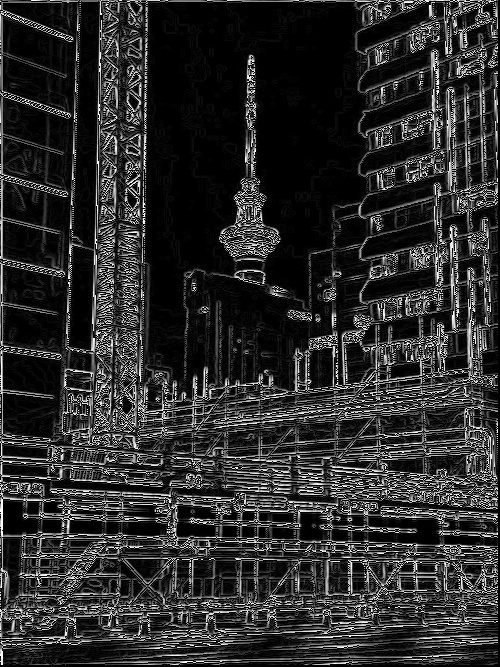
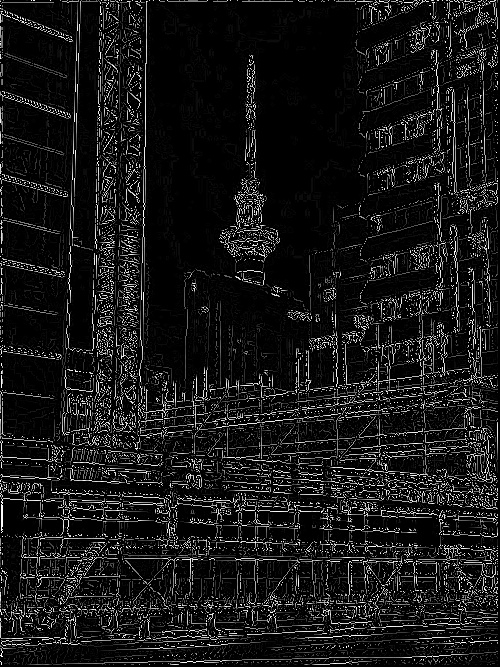
implemented canny

diff --git a/canny.py b/canny.py
@@ -34,7 +34,6 @@ def blur(img):
 	return output
 
 def sepblur(img):
-	print("blurring")
 	output = np.zeros_like(img)
 	output2 = np.zeros_like(img)
 	kernelc = np.array([[1],[2],[1]])/4
@@ -86,113 +85,113 @@ def sobel(gray_img):
 				for kc in range(3):
 					hori += horizontal[kr][kc] * gray_img[i-kr][j-kc]
 					vert += vertical[kr][kc] * gray_img[i-kr][j-kc]
+			angle = np.rad2deg(np.arctan2(vert,hori))
+			if angle < 0: 
+				angle += 180
+			angles[i-1,j-1] = angle
+			output[i-1,j-1] = np.sqrt(np.square(hori) + np.square(vert))
 
     		# Edge Magnitude
-			mag = np.sqrt(pow(hori, 2.0) + pow(vert, 2.0))
-			output[i-1,j-1] = mag
-			angles[i-1,j-1] = np.arctan2(vert,hori)
-			#if mag > 100:
-				#output[i-1,j-1] = mag
+			#mag = np.sqrt(pow(hori, 2.0) + pow(vert, 2.0))
+			#output[i-1,j-1] = mag
+				#if mag > 100:
+					#output[i-1,j-1] = mag
 
 	cv2.imwrite('sobel.jpg',output)
-	return output,angles
+	return (output,angles)
 
 def nms(img,angles):
+	nmsimg = np.zeros_like(img)
 	rows = img.shape[0]
 	cols = img.shape[1]
+	angle = 0
 	for i in range(1,rows-1):
 		for j in range(1,cols-1):
-			print(f"{(i-1,j-1)}: {angles[i-1,j-1]}")
-			if angles[i-1,j-1] < 0:
-				break
-			#if -22.5 <= gradnorm <= 22.5 or -157.5 <= gradnorm <= 157.5:
-				#if output[i-2,j-1] > output[i-1,j-1] or output[i,j-1] > output[i-1,j-1]:
-					#output[i-1,j-1] = 0
-			#elif 67.5 <= gradnorm <= 122.5 or -122.5<= gradnorm <= -67.5:
-				#if output[i-1,j] > output[i-1,j-1] or output[i-1,j-2] > output[i-1,j-1]:
-					#output[i-1,j-1] = 0 
-			#elif 22.5 <= gradnorm <= 67.5 or -157.5 <= gradnorm <= -122.5:
-				#if output[i-1,j-1] < output[i,j] or output[i-1,j-1] < output[i-2,j-2]:
-					#output[i-1,j-1] = 0
-			#elif 122.5 <= gradnorm <= 157.5 or -67.5 <= gradnorm <= -22.5:
-				#if output[i-1,j-1] < output[i-2,j] or output[i-1,j-1] < output[i,j-2]:
-					#output[i-1,j-1] = 0
+			angle = angles[i-1,j-1]
+			#print(f"{(i-1,j-1)}: {angles[i-1,j-1]}")
+			if -22.5 <= angle <= 22.5 or (angle >= 157.5 or angle <= -157.5):
+				if img[i-1,j-1] < img[i-1,j] or img[i-1,j-1] < img[i-1,j-2]:
+					nmsimg[i-1,j-1] = 0
+				else:
+					nmsimg[i-1,j-1] = img[i-1,j-1]
+			elif 22.5 <= angle <= 67.5 or -157.5 <= angle <= -112.5:
+				if img[i-1,j-1] < img[i,j] or img[i-1,j-1] < img[i-2,j-2]:
+					nmsimg[i-1,j-1] = 0
+				else:
+					nmsimg[i-1,j-1] = img[i-1,j-1]
+			elif -67.5 <= angle <= -22.5 or 112.5 <= angle <= 157.5:
+				if img[i-1,j-1] < img[i-2,j] or img[i-1,j-1] < img[i,j-2]:
+					nmsimg[i-1,j-1] = 0
+				else:
+					nmsimg[i-1,j-1] = img[i-1,j-1]
+			elif 67.5 <= angle <= 112.5 or -112.5 <= angle <= -67.5:
+				if img[i-1,j-1] < img[i,j-1] or img[i-1,j-1] < img[i-2,j-1]:
+					nmsimg[i-1,j-1] = 0
+				else:
+					nmsimg[i-1,j-1] = img[i-1,j-1]
+			#else:
+				#if img[i-1,j-1] < img[i-2,j] and img[i-1,j-1] < img[i,j-2]:
+					#img[i-1,j-1] = 0
+	
+	
+	cv2.imwrite('sobelNMS.jpg',nmsimg)
+	return nmsimg
 
-
-def sepprewitt(img):
-	hori = np.zeros_like(img)
-	temphori = np.zeros_like(img)
-	vert = np.zeros_like(img)
-	tempvert = np.zeros_like(img)
-	out = np.zeros_like(img)
-	normx = np.zeros_like(img)
-	normy = np.zeros_like(img)
-	blurc = np.array([[1],[2],[1]])/4
-	sobelr = np.array([-1,0,1])
-	blurr = np.array([1,2,1])/4
-	sobelc = np.array([[-1],[0],[1]])
+def doublethresh(img):
+	thresholded = np.zeros_like(img)
+	low = 50
+	high = 125
 	rows = img.shape[0]
 	cols = img.shape[1]
+	for i in range(1, rows-1):
+		for j in range(1,cols-1):
+			if img[i-1,j-1] <= low:
+				thresholded[i-1,j-1] = 0
+			elif img[i-1,j-1] > low and img[i-1,j-1] < high:
+				thresholded[i-1,j-1] = 150
+			else:
+				thresholded[i-1,j-1] = 255
+	cv2.imwrite('thresholded.jpg',thresholded)
+	return thresholded
 
-	for r in range(rows):
-		for c in range(cols):
-			temp = 0
-			for kc in range(3):
-				ii = c - kc
-				temp += blurc[kc][0] * img[r][ii]
-			temphori[r][c] = abs(temp)
+def hysteresis(img):
+	strong = np.zeros_like(img)
+	rows = img.shape[0]
+	cols = img.shape[1]
+	topr=0
+	topl=0
+	topm=0
+	l=0
+	r=0
+	botr=0
+	botl=0
+	botm=0 
+	neighbors = []
+	for i in range(1, rows -1):
+		for j in range(1, cols -1):
+			topr = img[i,j]
+			topl = img[i,j-2]
+			topm = img[i,j-1]
+			l = img[i-1,j-2]
+			r = img[i-1,j]
+			botr = img[i-2,j]
+			botl = img[i-2,j-2]
+			botm = img[i-2,j-1]
+			neighbors =[topr,topl,topm,l,r,botr,botl,botm]
+			#print(img[i-1,j-1])
+			#print(neighbors)
+			found = False
+			if img[i-1,j-1] == 150:
+				if any(n >= 125 for n in neighbors):
+					strong[i-1,j-1] = 255
+					img[i-1,j-1] = 255
+				else:
+					strong[i-1,j-1] = 0
+					img[i-1,j-1] = 0
+			elif img[i-1,j-1] == 255:
+				strong[i-1,j-1] = 255
 
-	cv2.imwrite('gaussX.jpg',temphori)
-					
-	for r in range(rows):
-		for c in range(cols):
-			temp = 0
-			for kr in range(3):
-				jj = r - kr
-				temp += sobelr[kr] * temphori[jj][c]
-			normx[r][c] = temp
-			hori[r][c] = abs(temp)
-
-	cv2.imwrite('sobelX.jpg',hori)
-
-	for r in range(rows):
-		for c in range(cols):
-			temp = 0
-			for kr in range(3):
-				jj = r - kr
-				temp += blurr[kr] * img[jj][c]
-			tempvert[r][c] = abs(temp)
-
-	cv2.imwrite('gaussY.jpg',tempvert)
-
-	for r in range(rows):
-		for c in range(cols):
-			temp = 0
-			for kc in range(3):
-				ii = c - kc
-				temp += sobelc[kc][0] * tempvert[r][ii]
-			normy[r][c] = temp
-			vert[r][c] = abs(temp)
-	
-	cv2.imwrite('sobelY.jpg',vert)
-	i = 0
-	for r in range(rows):
-		for c in range(cols):
-			out[r][c] = np.sqrt(pow(hori[r][c],2) + pow(vert[r][c],2))
-			gradnorm = np.arctan2(float(normy[r][c]),float(normx[r][c])) * (180/np.pi)
-			#gradnorm = round(gradnorm,2)
-			print(f"{(r,c)}Gx = {normx[r][c]}, Gy = {normy[r][c]}")
-			#if gradnorm <= 22.5 and gradnorm >= -22.5: #vertical edge
-			#print(f"Grad dir at {r,c}: {gradnorm}")
-			#if i > 100:
-				#break
-			#else:
-				#i += 1
-
-	cv2.imwrite('sobel.jpg',out)
-	#cv2.imwrite('prewittadd.jpg',hori + vert)
-	#cv2.imshow('sep prewitt',out)
-	#cv2.waitKey(0)
+	cv2.imwrite('final.jpg',strong)
 
 def opencvgaussian(img):
 	return cv2.GaussianBlur(img, (5,5),0)
@@ -208,16 +207,45 @@ def speedtest(func,img):
 		print(f"Trial {i+1}: {round(time.time() - start_time,3)}")  #output after each convolution
 	return sum/5 													#return the average
 
-def start():
-	imgpath = 'nztowerds.jpg' #downscaled
-	#imgpath = 'nztowerORI.jpg' #original
-	grayimg = grayscale(cv2.imread(imgpath))
-	img = sepblur(grayimg)
-	img, angles = sobel(img)
-	nms(img, angles)
+def cannyPerformance(func):
+	start_time = time.time()
+	func()
 
-	#cv2.imwrite('opencvblurred.jpg',cv2.GaussianBlur(grayimg,(3,3),0))
-	#print(f"average time in seconds (5 trials):  {speedtest(opencvgaussian,grayimg)} seconds")
+	print(f"Completion time: {round(time.time() - start_time,3)}")
+
+def canny():
+	imgpath = 'nztowerds.jpg' #original
+	#imgpath = 'mount.JPG'
+	print("Grayscaling...")
+	grayimg = grayscale(cv2.imread(imgpath)) #grayscale
+	print("Blurring...")
+	img = sepblur(grayimg) #blur
+	#img = opencvgaussian(grayimg) #much faster
+	print("Getting gradient magnitude and direction...")
+	grad = sobel(img) #grad magnitude and dir
+	print("NMS...")
+	nmsimg = nms(grad[0],grad[1]) #nms
+	print("Thresholding...")
+	thresh = doublethresh(nmsimg) #double thresholding
+	print("Hysteresis...")
+	hysteresis(thresh) #hysteresis
+
+def cv2Canny():
+	imgpath = 'nztowerORI.jpg'
+	img = cv2.imread(imgpath)
+	edges = cv2.Canny(img,50,100)
+	cv2.imwrite("cv2Canny.jpg",edges)
+
+def start():
+	#cv2Canny()
+	#img = cv2.cvtColor(cv2.imread(imgpath),cv2.COLOR_BGR2GRAY)
+	canny()
+	#cannyPerformance(canny())
+	#imgpath = 'sobelNMS.jpg'
+	#img = cv2.imread(imgpath)
+	#img = cv2.cvtColor(img,cv2.COLOR_BGR2GRAY)
+	#thresh = doublethresh(img)
+	#hysteresis(thresh)
 	
 if __name__ == "__main__":
 	start()
